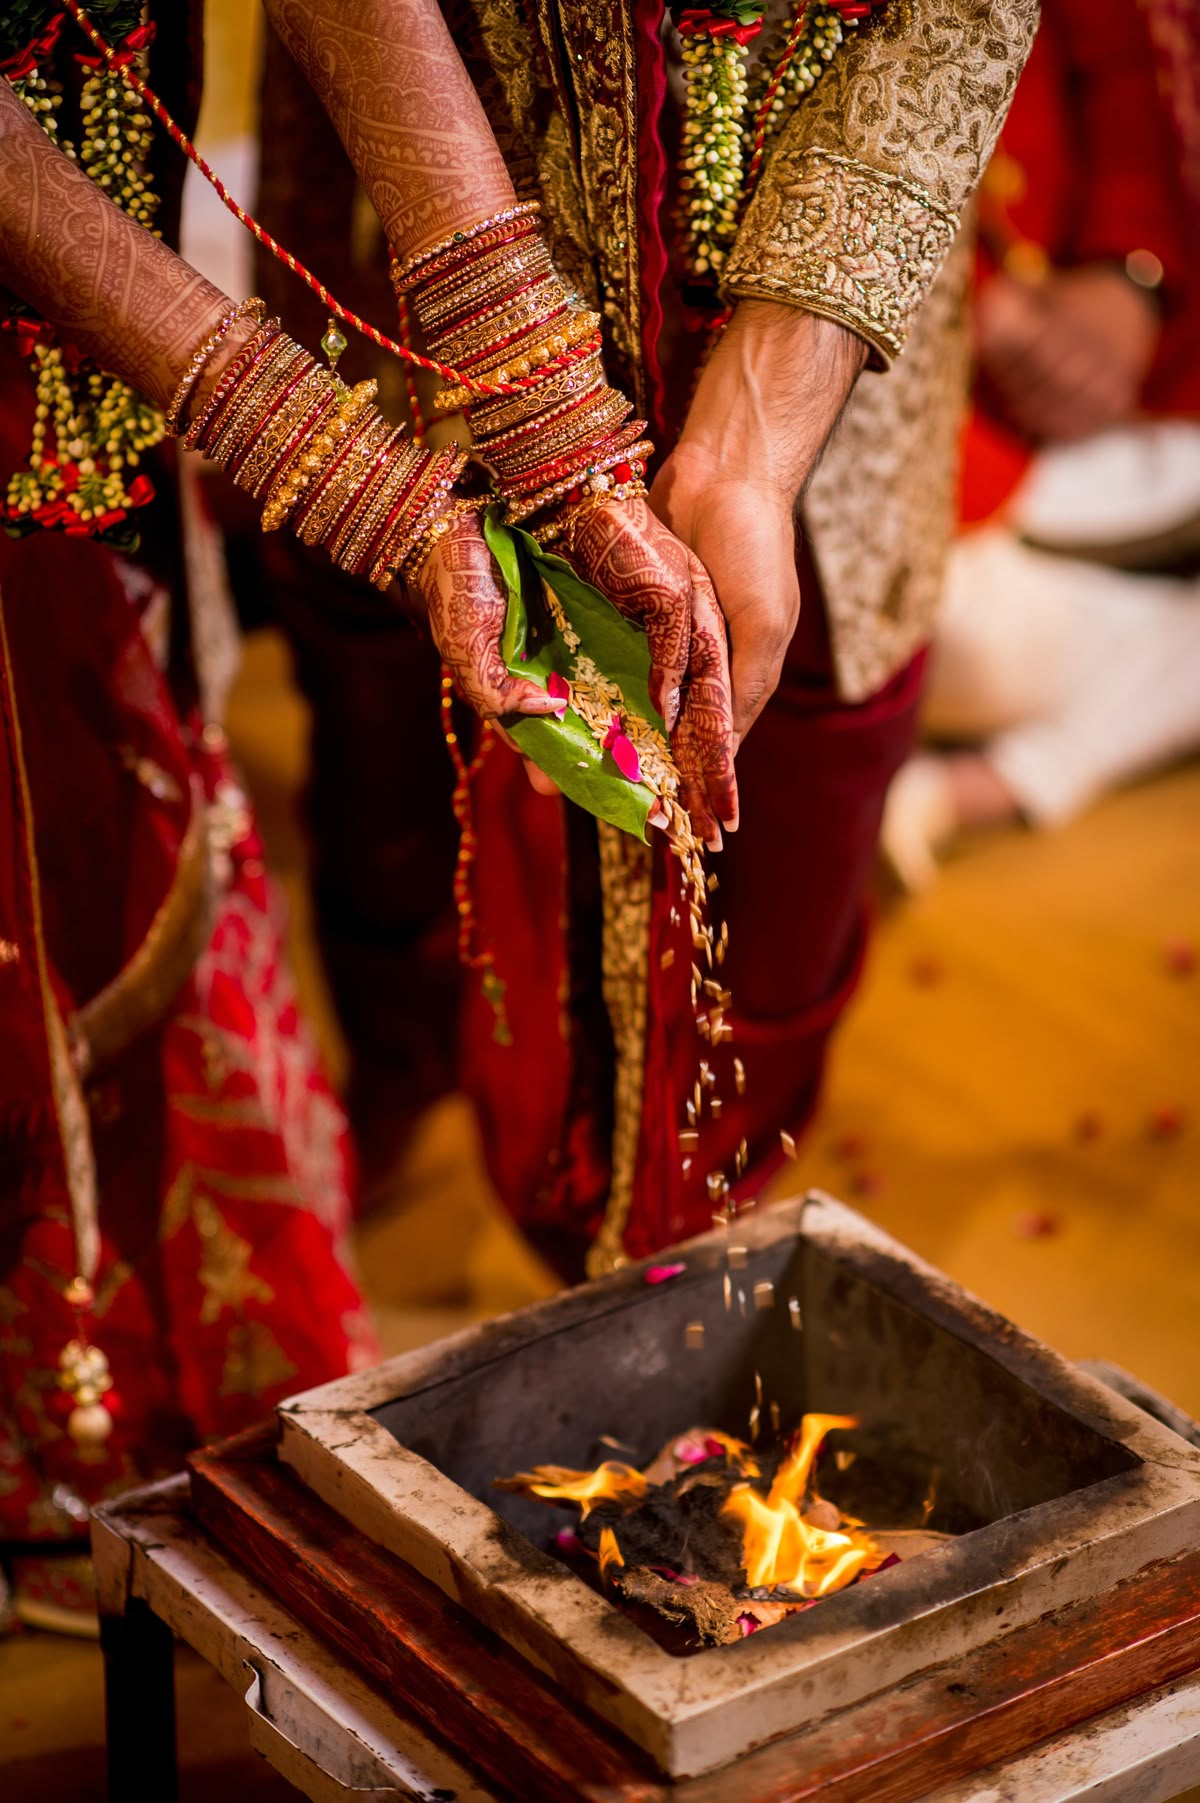
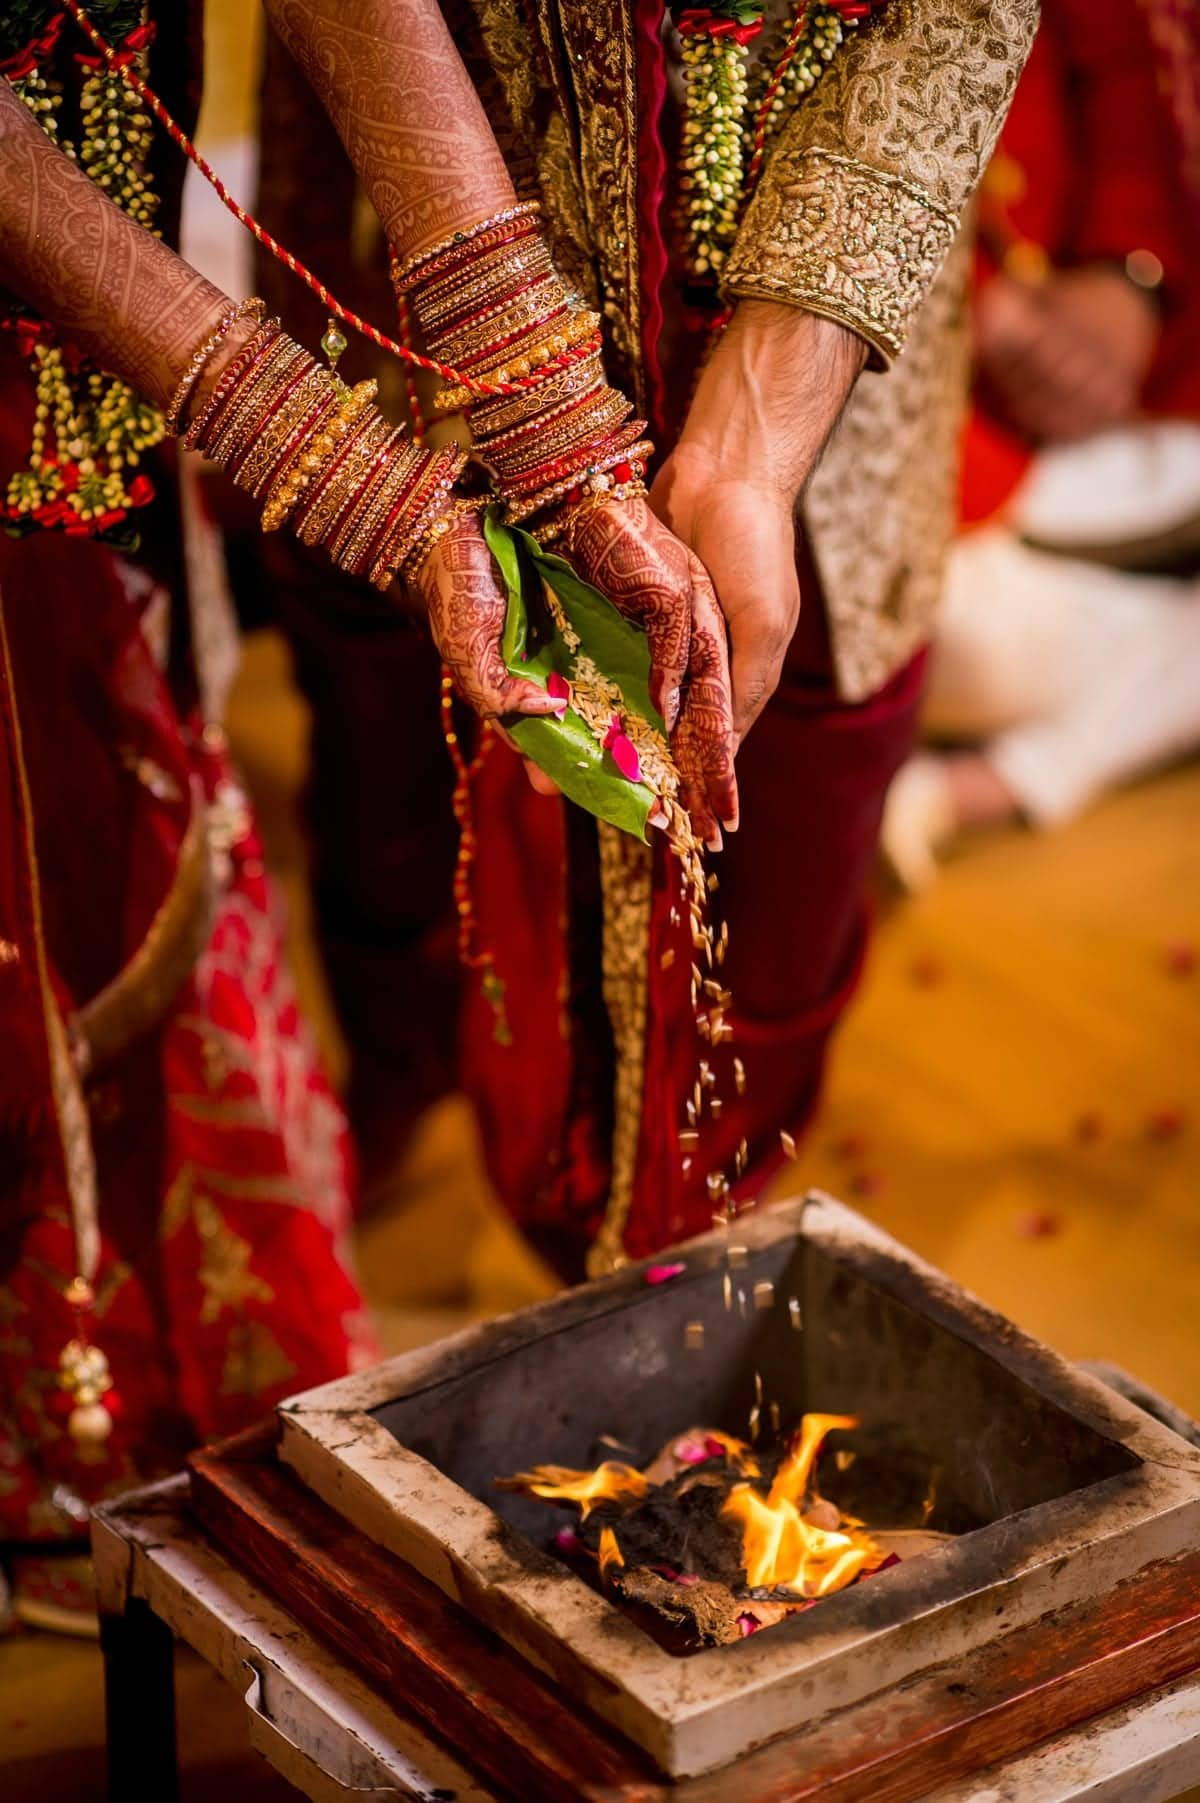
Optimize all images with Picture component (AVIF & WebP), mobile hero srcset, lazy loading, and merged hero gradient

Changed region(s): [[0.37, 0.1242, 0.5242, 0.2795], [0.185, 0.1864, 0.37, 0.3106]]

diff --git a/src/styles/global.css b/src/styles/global.css
@@ -55,6 +55,10 @@
     -moz-osx-font-smoothing: grayscale;
   }
 
+  picture {
+    display: contents;
+  }
+
   ::selection {
     background: #D4AF37;
     color: #FFFFFF;
